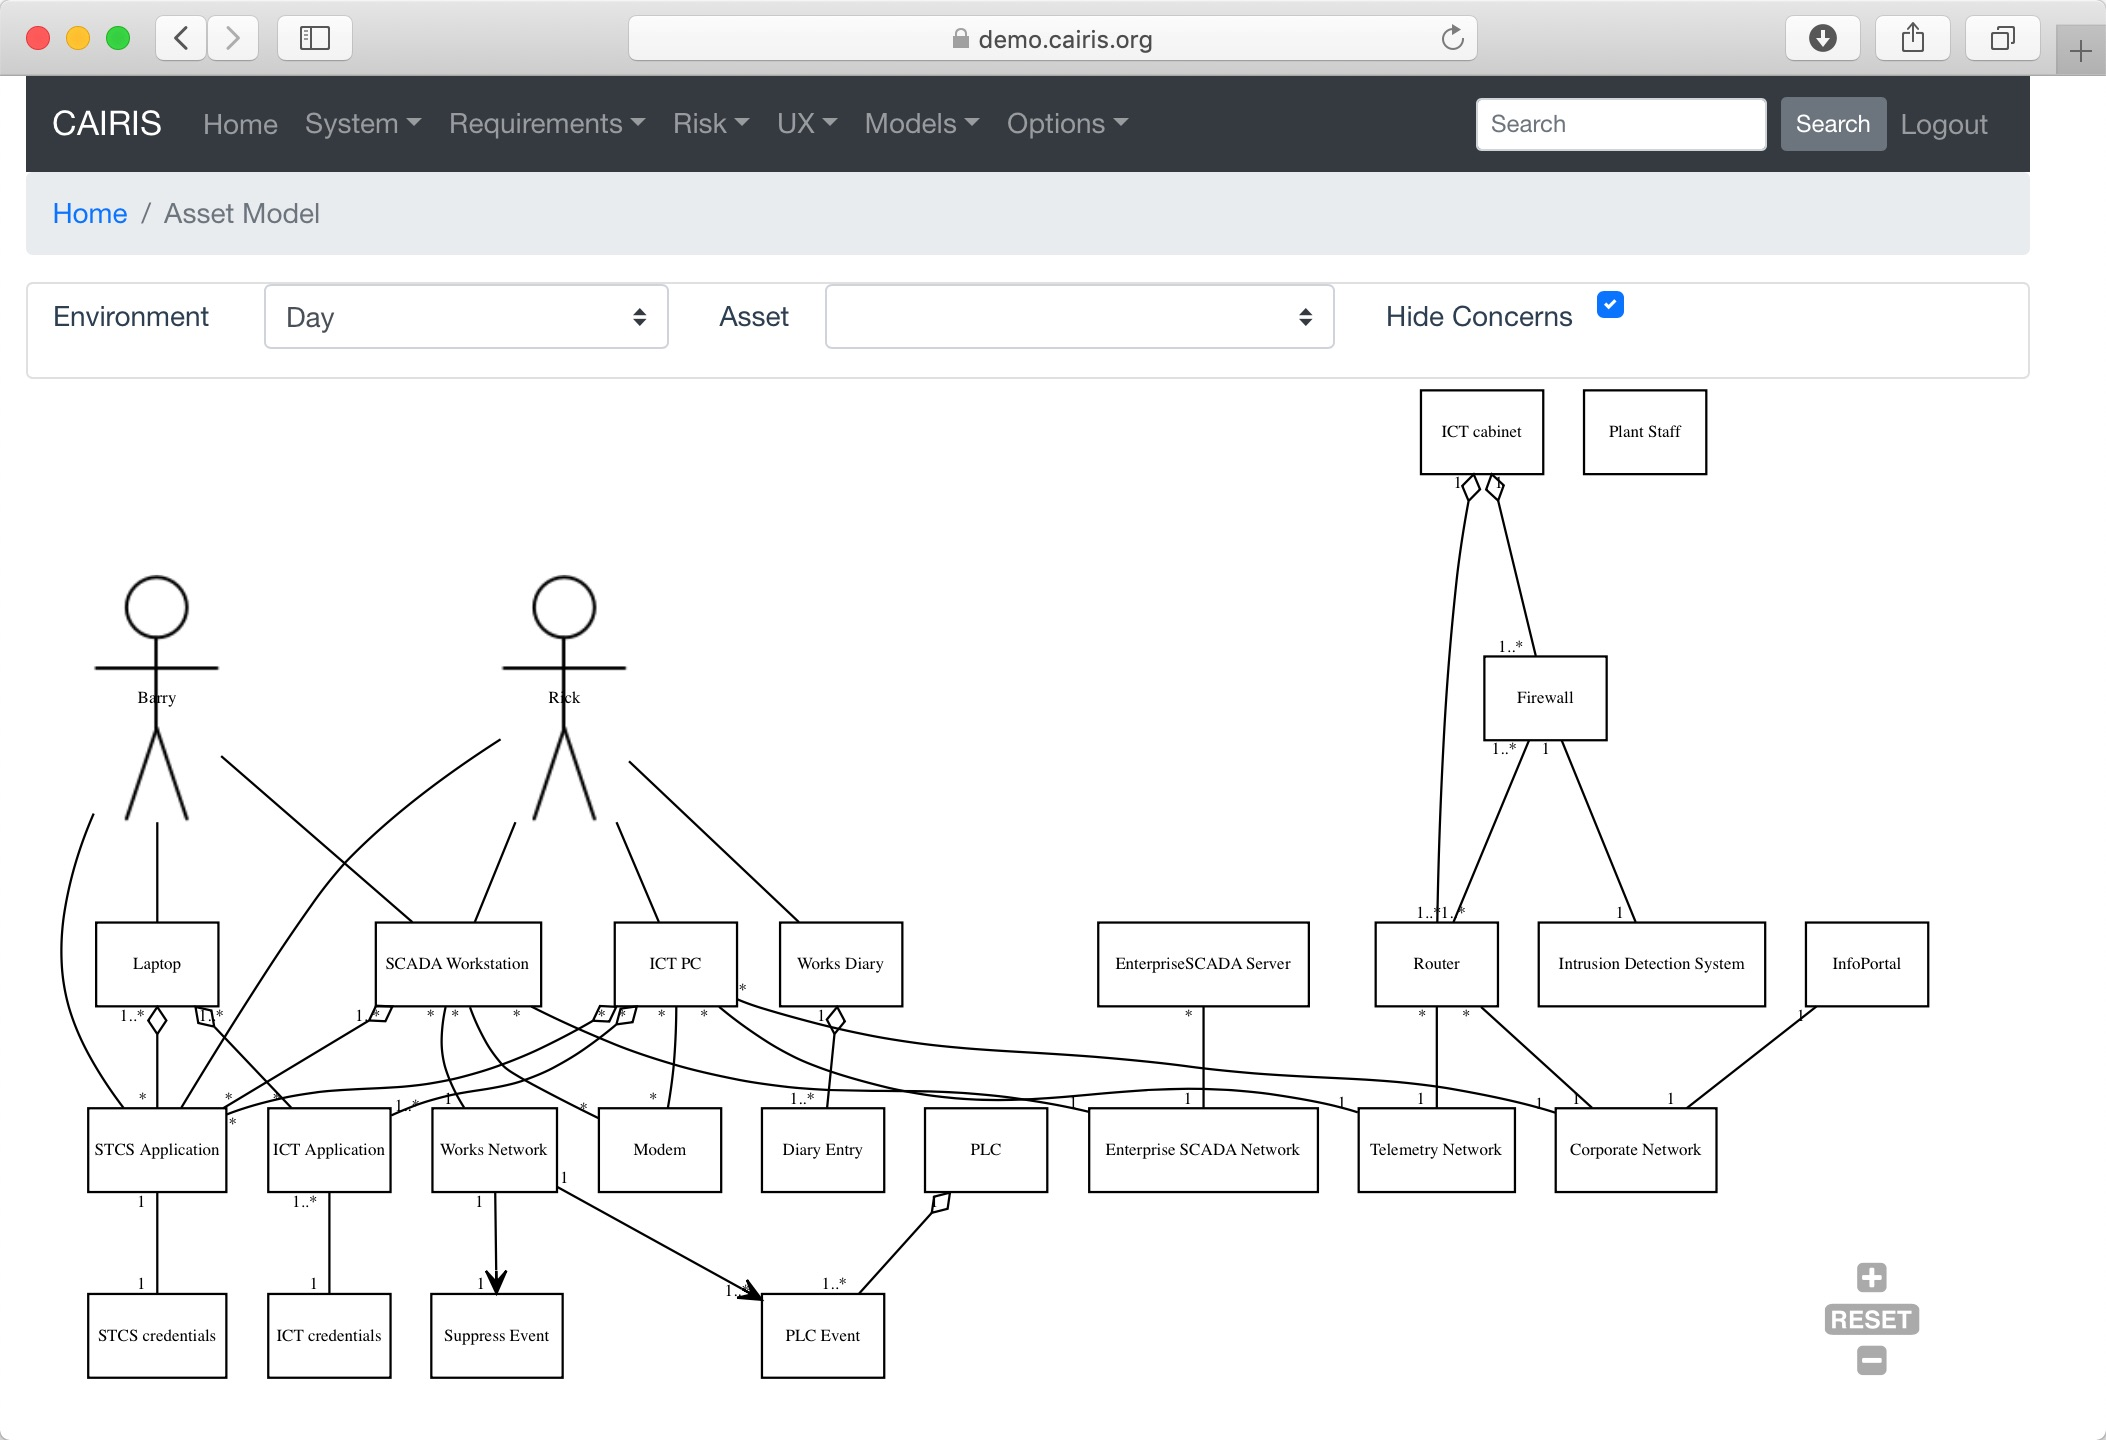
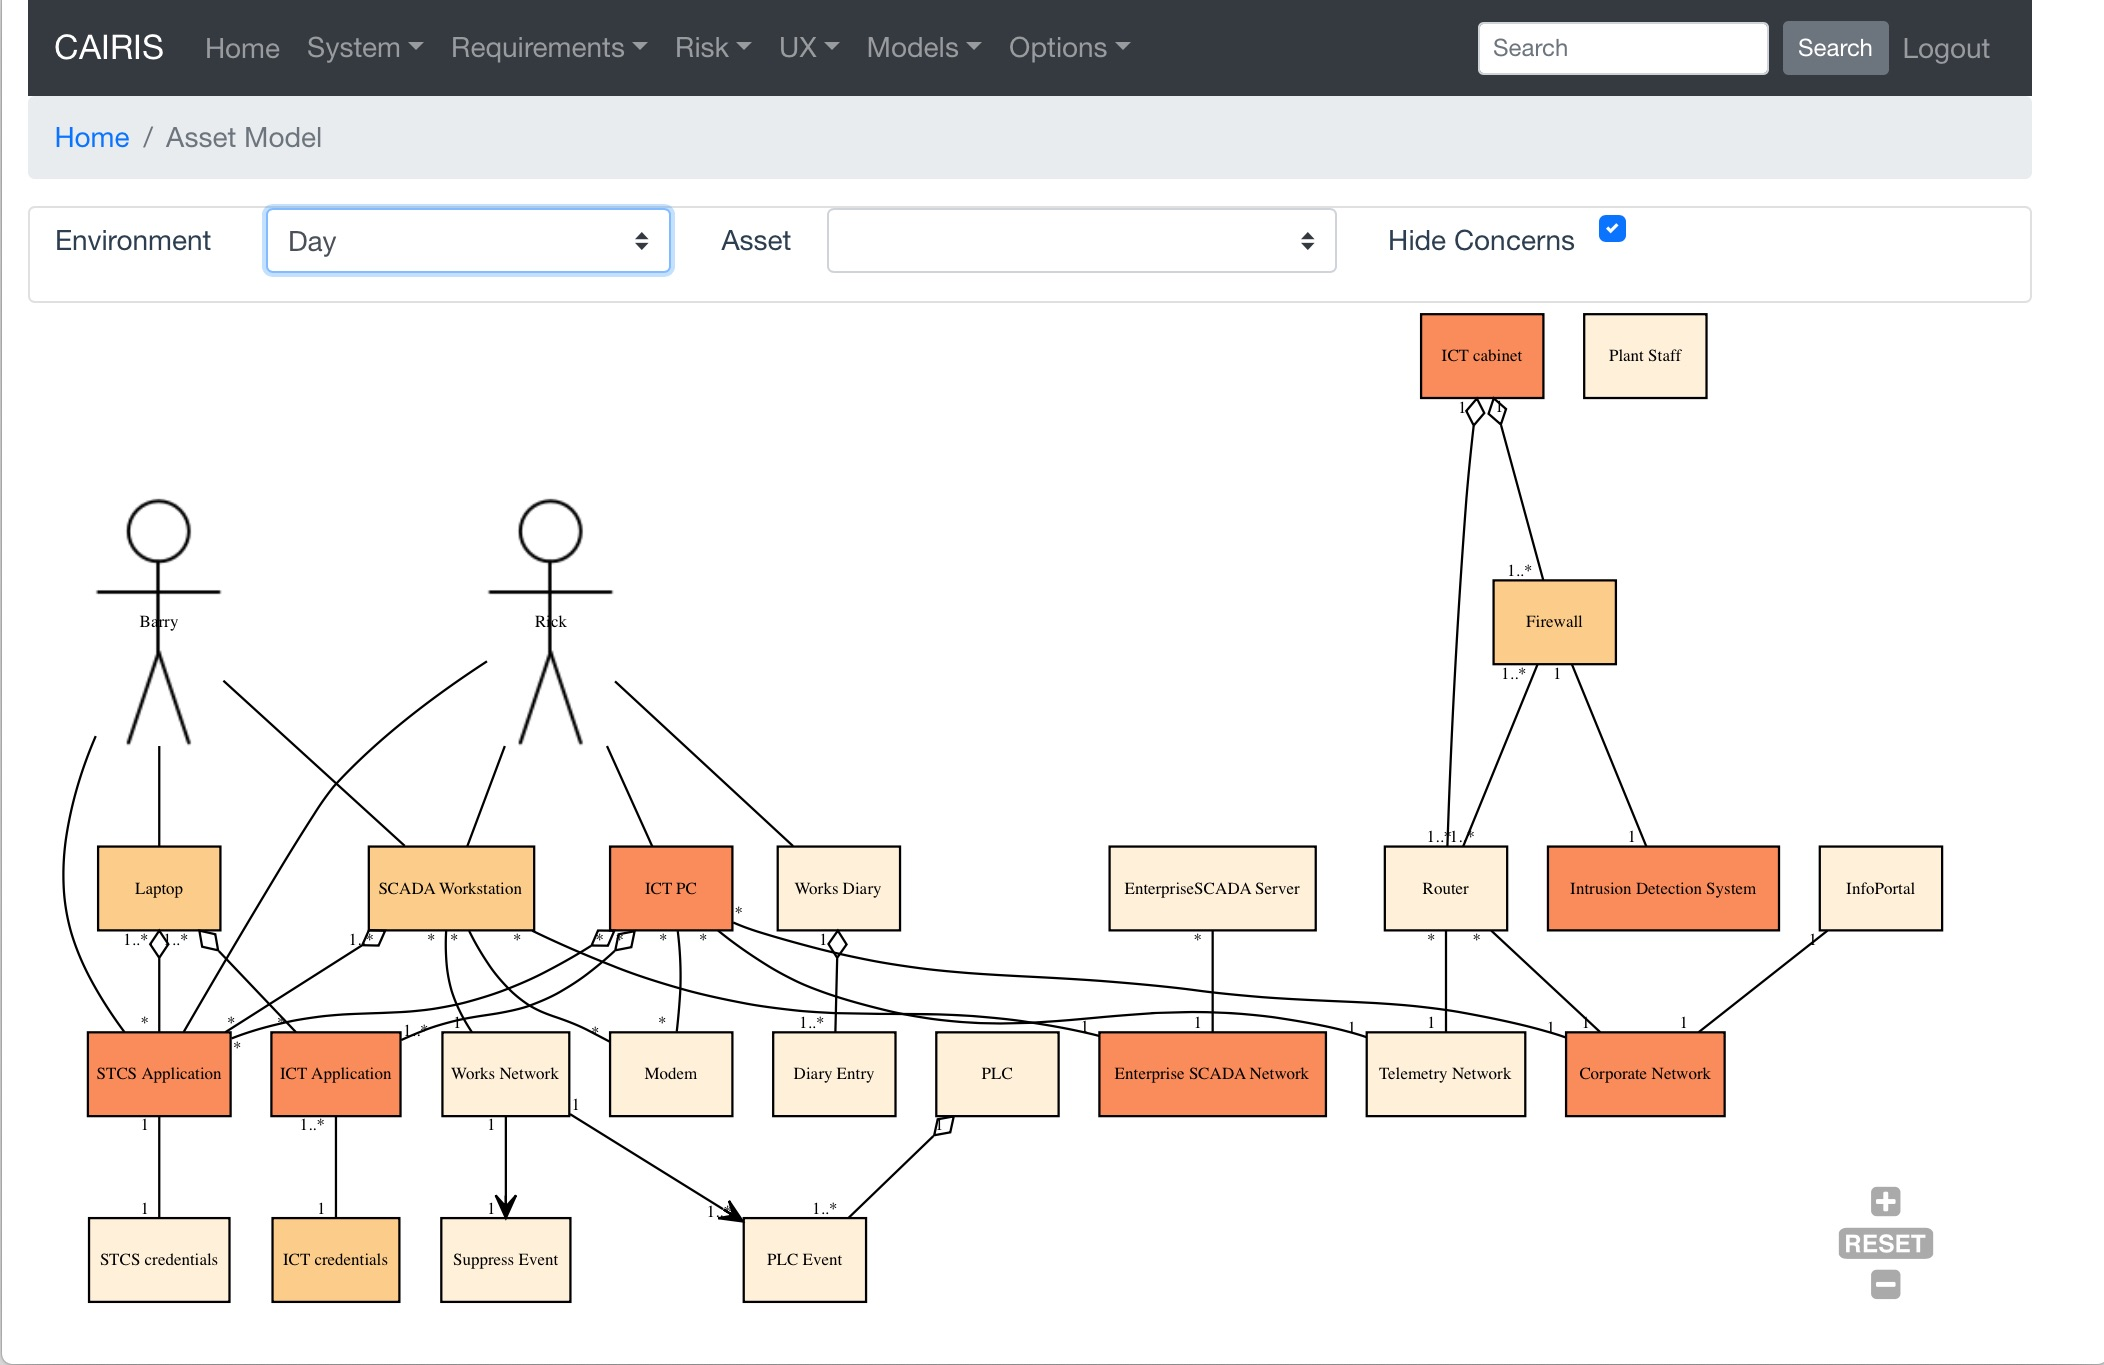
Documentation update for #365

diff --git a/docs/assets.rst b/docs/assets.rst
@@ -127,8 +127,11 @@ Asset models can be viewed by selecting the Models/Asset menu, and selecting the
 .. figure:: AssetModel.jpg
    :alt: Asset Model
 
-By changing the environment name in the environment combo box, the asset
-model for a different environment can be viewed.  The model can be filtered by selecting an asset.
+By changing the environment name in the environment combo box, the asset model for a different environment can be viewed.
+
+Each asset node is shaded red based on its *attack surface*.  This is based on the highest severity value of the vulnerabilities associated with the asset; the higher the value, the darker the shade of red.
+
+The model can be filtered by selecting an asset.
 This will display on the asset, and the other asset model elements immediately associated with it.
 By default, concern associations are hidden.  These are UML comment nodes that indicate elements from other CAIRIS models associated with asset.
 These concerns can be shown by changing the Hide Concerns combo box value to Yes.

diff --git a/docs/install.rst b/docs/install.rst
@@ -73,9 +73,10 @@ The final step entails installing the UI code by running the below script in cai
 
 .. code-block:: bash
 
-   sudo ./installUI.sh
+   sudo -E ./installUI.sh
 
 The CAIRIS UI code is managed in the `cairis-ui github repository <https://github.com/failys/cairis-ui>`_.  Running this script will setup `node <https://nodejs.org>`_ and `yarn <https://yarnpkg>`_, download the github repo, create a production version of the latest UI code and deploy to cairis/cairis/dist.
+The -E flag is required, as the CAIRIS_SRC environment variable needs to be visible to root.
 
 You should now start up your CAIRIS server.  Create the following *cairis.service* file, substituting *cairisuser* for the name of your account.  Using sudo or root, copy this file to /etc/systemd/system.
 
